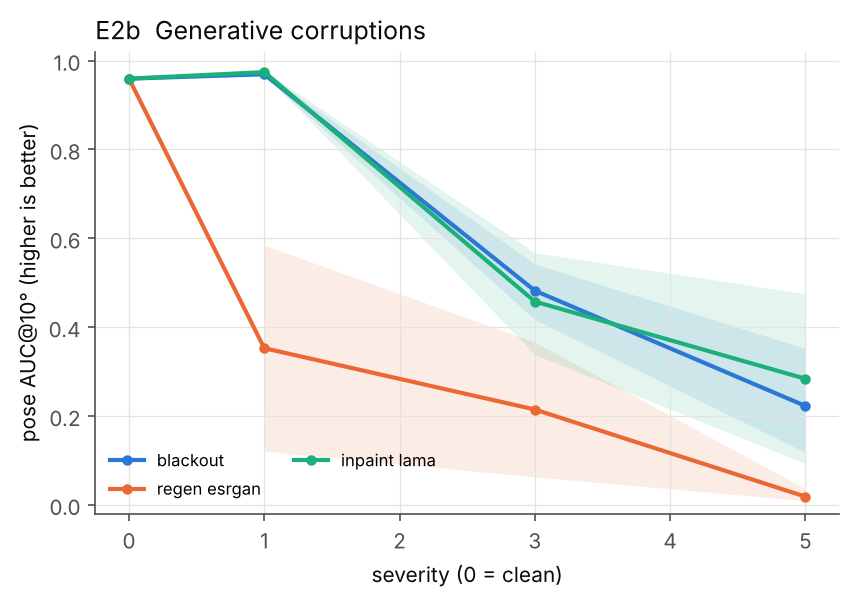
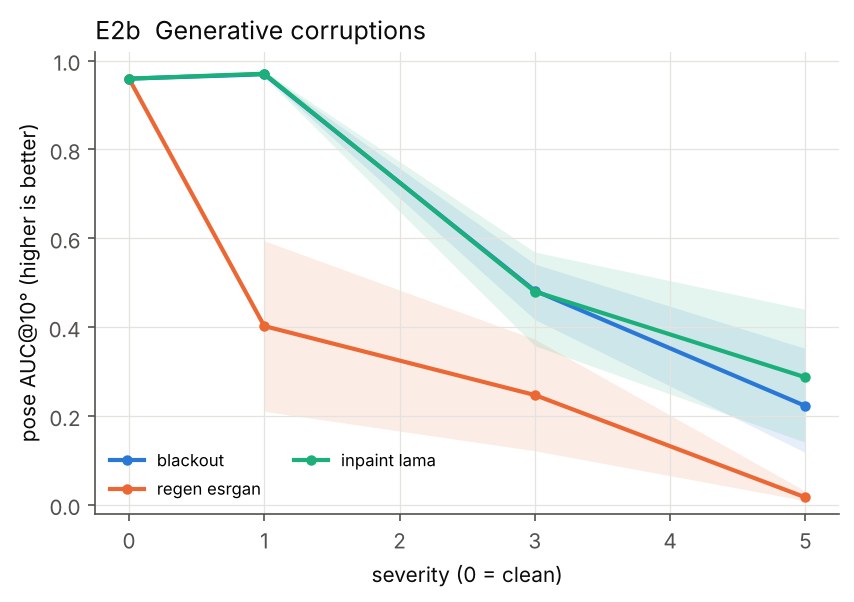
Update generative results
Claude-Session: https://claude.ai/code/session_01DwFUuxyVwkhujN2CBgQS9g

diff --git a/results/summary.md b/results/summary.md
@@ -53,12 +53,12 @@ Metric: pose AUC@10° over all input image pairs (unregistered = failure) and re
 | blackout | 1 | 6 | 0.969 [0.96, 0.97] | 1.000 [1.00, 1.00] |
 | blackout | 3 | 6 | 0.482 [0.42, 0.54] | 0.711 [0.66, 0.76] |
 | blackout | 5 | 6 | 0.222 [0.12, 0.35] | 0.468 [0.35, 0.60] |
-| inpaint_lama | 1 | 4 | 0.974 [0.97, 0.98] | 1.000 [1.00, 1.00] |
-| inpaint_lama | 3 | 4 | 0.458 [0.34, 0.57] | 0.690 [0.59, 0.78] |
-| inpaint_lama | 5 | 4 | 0.284 [0.09, 0.47] | 0.522 [0.32, 0.72] |
-| regen_esrgan | 1 | 4 | 0.353 [0.12, 0.58] | 0.704 [0.44, 0.97] |
-| regen_esrgan | 3 | 4 | 0.214 [0.06, 0.37] | 0.459 [0.29, 0.63] |
-| regen_esrgan | 5 | 4 | 0.018 [0.01, 0.04] | 0.185 [0.12, 0.25] |
+| inpaint_lama | 1 | 5 | 0.970 [0.96, 0.98] | 1.000 [1.00, 1.00] |
+| inpaint_lama | 3 | 5 | 0.480 [0.36, 0.57] | 0.708 [0.61, 0.78] |
+| inpaint_lama | 5 | 5 | 0.287 [0.14, 0.44] | 0.534 [0.38, 0.69] |
+| regen_esrgan | 1 | 5 | 0.402 [0.21, 0.59] | 0.759 [0.52, 0.98] |
+| regen_esrgan | 3 | 5 | 0.247 [0.12, 0.37] | 0.495 [0.35, 0.64] |
+| regen_esrgan | 5 | 5 | 0.017 [0.01, 0.03] | 0.172 [0.12, 0.22] |
 
 
 ## E1s  Synthetic weather incl. desert
@@ -98,11 +98,11 @@ Metric: pose AUC@10° over all input image pairs (unregistered = failure) and re
 |---|---|---|---|---|
 | 4 | bicubic | 6 | 0.313 [0.18, 0.45] | 0.548 [0.41, 0.68] |
 | 4 | lowres | 6 | 0.023 [0.01, 0.04] | 0.125 [0.04, 0.21] |
-| 4 | realesrgan | 3 | 0.131 [0.05, 0.17] | 0.377 [0.25, 0.44] |
+| 4 | realesrgan | 5 | 0.125 [0.07, 0.17] | 0.364 [0.29, 0.44] |
 | 4 | unsharp_bicubic | 6 | 0.320 [0.18, 0.46] | 0.555 [0.42, 0.69] |
 | 8 | bicubic | 6 | 0.026 [0.01, 0.04] | 0.145 [0.07, 0.21] |
 | 8 | lowres | 6 | 0.000 [0.00, 0.00] | 0.037 [0.01, 0.06] |
-| 8 | realesrgan | 3 | 0.000 [0.00, 0.00] | 0.027 [0.00, 0.04] |
+| 8 | realesrgan | 4 | 0.000 [0.00, 0.00] | 0.020 [0.00, 0.04] |
 | 8 | unsharp_bicubic | 6 | 0.051 [0.05, 0.05] | 0.245 [0.24, 0.25] |
 
 
@@ -112,9 +112,9 @@ Metric: pose AUC@10° over all input image pairs (unregistered = failure) and re
 
 | mitigation | severity | n | auc@10 | reg_frac |
 |---|---|---|---|---|
-| lama_remove | 1 | 4 | 0.969 [0.97, 0.97] | 1.000 [1.00, 1.00] |
-| lama_remove | 3 | 4 | 0.370 [0.20, 0.54] | 0.729 [0.56, 0.92] |
-| lama_remove | 5 | 4 | 0.335 [0.17, 0.50] | 0.713 [0.56, 0.88] |
+| lama_remove | 1 | 5 | 0.968 [0.97, 0.97] | 1.000 [1.00, 1.00] |
+| lama_remove | 3 | 5 | 0.404 [0.24, 0.55] | 0.739 [0.60, 0.88] |
+| lama_remove | 5 | 5 | 0.363 [0.22, 0.49] | 0.718 [0.59, 0.85] |
 | mask | 1 | 6 | 0.972 [0.97, 0.98] | 1.000 [1.00, 1.00] |
 | mask | 3 | 6 | 0.397 [0.28, 0.51] | 0.731 [0.62, 0.85] |
 | mask | 5 | 6 | 0.322 [0.22, 0.42] | 0.681 [0.65, 0.71] |
@@ -135,11 +135,11 @@ Metric: pose AUC@10° over all input image pairs (unregistered = failure) and re
 | crowd | 0.500 | 6 | 0.298 [0.16, 0.42] | 0.859 [0.73, 0.97] |
 | crowd | 0.750 | 6 | 0.126 [0.07, 0.18] | 0.934 [0.89, 0.97] |
 | crowd | 1.000 | 6 | 0.023 [0.01, 0.04] | 0.966 [0.91, 1.00] |
-| inpaint_lama | 0.100 | 3 | 0.967 [0.96, 0.97] | 1.000 [1.00, 1.00] |
-| inpaint_lama | 0.250 | 3 | 0.940 [0.87, 0.98] | 1.000 [1.00, 1.00] |
-| inpaint_lama | 0.500 | 3 | 0.949 [0.94, 0.96] | 1.000 [1.00, 1.00] |
-| inpaint_lama | 0.750 | 3 | 0.455 [0.24, 0.57] | 0.687 [0.50, 0.78] |
-| inpaint_lama | 1.000 | 3 | 0.512 [0.39, 0.57] | 0.737 [0.65, 0.78] |
+| inpaint_lama | 0.100 | 4 | 0.966 [0.96, 0.97] | 1.000 [1.00, 1.00] |
+| inpaint_lama | 0.250 | 4 | 0.947 [0.89, 0.98] | 1.000 [1.00, 1.00] |
+| inpaint_lama | 0.500 | 4 | 0.957 [0.94, 0.97] | 1.000 [1.00, 1.00] |
+| inpaint_lama | 0.750 | 4 | 0.436 [0.31, 0.56] | 0.671 [0.56, 0.78] |
+| inpaint_lama | 1.000 | 4 | 0.444 [0.32, 0.57] | 0.677 [0.57, 0.78] |
 | motion_blur | 0.100 | 6 | 0.599 [0.43, 0.73] | 0.829 [0.75, 0.90] |
 | motion_blur | 0.250 | 6 | 0.285 [0.13, 0.44] | 0.508 [0.34, 0.67] |
 | motion_blur | 0.500 | 6 | 0.028 [0.01, 0.06] | 0.162 [0.10, 0.23] |
